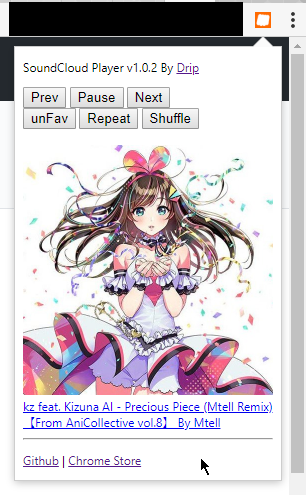
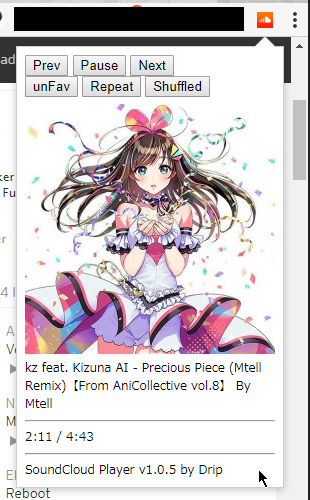
Ver 1.0.5

diff --git a/src/contents.js b/src/contents.js
@@ -1,6 +1,8 @@
-window.onload=()=>{var ready=!1;setInterval(()=>{ready=($(".playControls__wrapper").length!=0);var playing=$(".playControl")[0].title=="Pause current",track=$("a.playbackSoundBadge__titleLink")[0].title+" By "+$("a.playbackSoundBadge__lightLink")[0].title,artwork=$(".playbackSoundBadge span.sc-artwork").css("background-image").replace("url(\"","").replace("\")","").replace("50x50.","500x500."),fav=$(".playControls__soundBadge .sc-button-like")[0].title=="Unlike";if(ready&&json.track!=track){json.track=track;json.artwork=artwork;post()}
+window.onload=()=>{var ready=!1;setInterval(()=>{ready=($(".playControls__wrapper").length!=0);var playing=$(".playControl")[0].title=="Pause current",track=$("a.playbackSoundBadge__titleLink")[0].title+" By "+$("a.playbackSoundBadge__lightLink")[0].title,artwork=$(".playbackSoundBadge span.sc-artwork").css("background-image").replace("url(\"","").replace("\")","").replace("50x50.","500x500."),fav=$(".playControls__soundBadge .sc-button-like")[0].title=="Unlike",current=$(".playbackTimeline__timePassed span[aria-hidden]").text(),end=$(".playbackTimeline__duration span[aria-hidden]").text();if(ready&&json.track!=track){json.track=track;json.artwork=artwork;post()}
 if(json.playing!=playing){json.playing=playing;post()}
-if(json.favorite!=fav){json.favorite=fav;post()}},500)}
+if(json.favorite!=fav){json.favorite=fav;post()}
+if(json.time.current!=current){json.time.current=current;post()}
+if(json.time.end!=end){json.time.end=end;post()}},500)}
 function post(){chrome.storage.sync.set(json,null)}
 chrome.runtime.onMessage.addListener((request,sender,callback)=>{switch(request.toLowerCase()){case "play":case "pause":{$(".playControl.sc-ir.playControls__control.playControls__play")[0].click();json.playing=!json.playing;post();break}
 case "prev":{$(".playControls__prev")[0].click();break}
@@ -8,4 +10,4 @@ case "next":{$(".playControls__next")[0].click();break}
 case "unfav":case "fav":{$(".playbackSoundBadge__like")[0].click();json.favorite=$(".playbackSoundBadge__like")[0].title=="Unlike";post();break}
 case "repeat":{var btn=$(".repeatControl")[0];btn.click();json.repeat=btn.className.replace("repeatControl sc-ir m-","").toLowerCase();post();break}
 case "shuffle":{var btn=$(".shuffleControl")[0];btn.click();json.shuffle=btn.className.includes("m-shuffling");post();break}
-default:{break}}});var json={"playing":!1,"track":null,"artwork":null,"favorite":!1,"shuffle":!1,"repeat":"none"}
+default:{break}}});var json={"playing":!1,"track":null,"artwork":null,"favorite":!1,"shuffle":!1,"repeat":"none","time":{"current":null,"end":null}}

diff --git a/src/popup/popup.js b/src/popup/popup.js
@@ -4,6 +4,8 @@ if(items.playing!=null){toggleElem.value=!items.playing?"Play":"Pause"}
 if(items.favorite!=null){favElem.value=!items.favorite?"Fav":"unFav"}
 if(items.shuffle!=null){shuffleElem.value=items.shuffle?"Shuffled":"Shuffle"}
 if(items.repeat!=null){repeatElem.value=items.repeat=="none"?"Repeat":"Repeat ("+items.repeat+")"}
+if(items.time!=null){var timeJson=items.time;if($("#current").text()!=timeJson.current){$("#current").text(timeJson.current)}
+if($("#end").text()!=timeJson.end){$("#end").text(timeJson.end)}}
 json=items})},500);ready=!0}
 function init(){chrome.storage.sync.get(null,(items)=>{json=items});chrome.tabs.query({url:"*://soundcloud.com/*"},(results)=>{if(results.length==0){json.artwork="";json.track="* none *";chrome.storage.sync.set(json,null)}});$("#version").text("v"+chrome.runtime.getManifest().version);registerElements();$(toggleElem).on("click",()=>{toggle()});$(prevElem).on("click",()=>{queue("prev")});$(nextElem).on("click",()=>{queue("next")});$(favElem).on("click",()=>{toggleFav()});$(trackElem).on("click",()=>{openSCTab()});$(repeatElem).on("click",()=>{repeat()});$(shuffleElem).on("click",()=>{queue("shuffle")})}
 function queue(request){if(!ready)return;request=request.toLowerCase();chrome.tabs.query({url:"*://soundcloud.com/*"},(results)=>{if(results.length!=0)chrome.tabs.sendMessage(results[0].id,request.toLowerCase(),null)})}

diff --git a/src/popup/popup.html b/src/popup/popup.html
@@ -1,11 +1,6 @@
 <!DOCTYPE html>
 <head>
 	<meta charset="UTF-8">
-	<style>
-		body {
-			width: 250px;
-		}
-	</style>
 	<script src="../jquery-3.4.1.min.js"></script>
 	<script src="popup.js"></script>
 	<link rel="stylesheet" type="text/css" href="style.css">
@@ -20,24 +15,38 @@
 		<input id="fav" type="button" value="Fav"></input>
 		<input id="repeat" type="button" value="Repeat"></input>
 		<input id="shuffle" type="button" value="Shuffle"></input>
+	</div>
 
-		<br/>
-		<br/>
+	<div>
 		<img id="artwork" width="100%" src="../icon.png">
 		<a id="track" title="Open SoundCloud tab" href="javascript:void(0);"></a>
-		<hr/>
-		<p>
-			<p>
-				<a id="store" title="Go to chrome store" href="javascript:void(0);">
-					SoundCloud Player 
-					<span id="version"></span> 
-				</a>
-				by 
-				<a id="drip" title="follow me!" href="javascript:void(0)">
-					Drip
-				</a>
-			</p>
-		</p>
+	</div>
+	<hr/>
+
+	<div>
+		<div id="time">
+			<span id="current">
+				--:--
+			</span>
+			/
+			<span id="end">
+				--:--
+			</span>
+		</div>
+	</div>
+	<hr/>
+
+	<div>
+		<span>
+			<a id="store" title="Go to chrome store" href="javascript:void(0);">
+				SoundCloud Player 
+				<span id="version"></span> 
+			</a>
+			by 
+			<a id="drip" title="follow me!" href="javascript:void(0)">
+				Drip
+			</a>
+		</span>
 	</div>
 </body>
 </html>

diff --git a/vanilla/contents.js b/vanilla/contents.js
@@ -6,7 +6,9 @@ window.onload = () => {
 		var playing = $(".playControl")[0].title == "Pause current",
 			track = $("a.playbackSoundBadge__titleLink")[0].title + " By " + $("a.playbackSoundBadge__lightLink")[0].title,
 			artwork = $(".playbackSoundBadge span.sc-artwork").css("background-image").replace("url(\"", "").replace("\")", "").replace("50x50.", "500x500."),
-			fav = $(".playControls__soundBadge .sc-button-like")[0].title == "Unlike";
+			fav = $(".playControls__soundBadge .sc-button-like")[0].title == "Unlike",
+			current = $(".playbackTimeline__timePassed span[aria-hidden]").text(),
+			end = $(".playbackTimeline__duration span[aria-hidden]").text();
 
 		if (ready && json["track"] != track) {
 			json["track"] = track;
@@ -19,6 +21,14 @@ window.onload = () => {
 		}
 		if (json["favorite"] != fav) {
 			json["favorite"] = fav;
+			post();
+		}
+		if (json["time"]["current"] != current) {
+			json["time"]["current"] = current;
+			post();
+		}
+		if (json["time"]["end"] != end) {
+			json["time"]["end"] = end;
 			post();
 		}
 	}, 500);
@@ -79,5 +89,9 @@ var json = {
 	"artwork": null,
 	"favorite": false,
 	"shuffle": false,
-	"repeat": "none"
+	"repeat": "none",
+	"time": {
+		"current": null,
+		"end": null
+	}
 };

diff --git a/vanilla/popup.js b/vanilla/popup.js
@@ -30,6 +30,15 @@ window.onload = () => {
 			if (items["repeat"] != null) {
 				repeatElem.value = items["repeat"] == "none" ? "Repeat" : "Repeat (" + items["repeat"] + ")";
 			}
+			if (items["time"] != null) {
+				var timeJson = items["time"];
+				if ($("#current").text() != timeJson["current"]) {
+					$("#current").text(timeJson["current"]);
+				}
+				if ($("#end").text() != timeJson["end"]) {
+					$("#end").text(timeJson["end"]);
+				}
+			}
 			json = items;
 		});
 	}, 500);

diff --git a/src/popup/style.css b/src/popup/style.css
@@ -1,12 +1,1 @@
-body {
-	font-family: "Meiryo";
-}
-
-a {
-	color: black;
-	text-decoration: none;
-}
-
-a:hover {
-	color: #ff8c00;
-}
+body{width:250px;font-family:"Meiryo"}a{color:black;text-decoration:none}a:hover{color:#ff8c00}body div:not(:last-child){padding-bottom:7px}hr{margin-top:0}

diff --git a/vanilla/style.css b/vanilla/style.css
@@ -1,0 +1,21 @@
+body {
+	width: 250px;
+	font-family: "Meiryo";
+}
+
+a {
+	color: black;
+	text-decoration: none;
+}
+
+a:hover {
+	color: #ff8c00;
+}
+
+body div:not(:last-child) {
+	padding-bottom: 7px;
+}
+
+hr {
+	margin-top: 0;
+}
